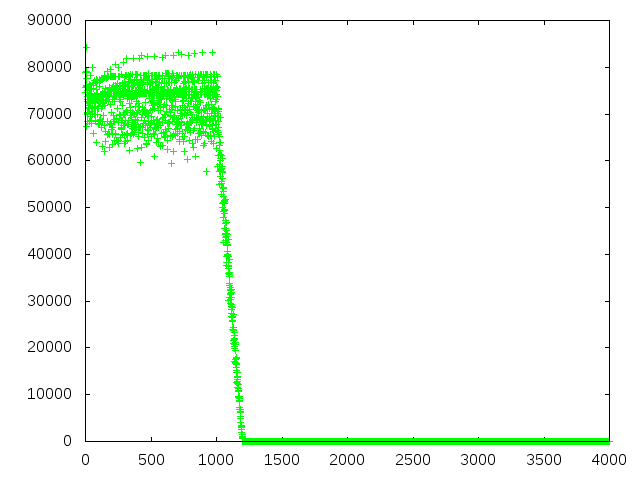
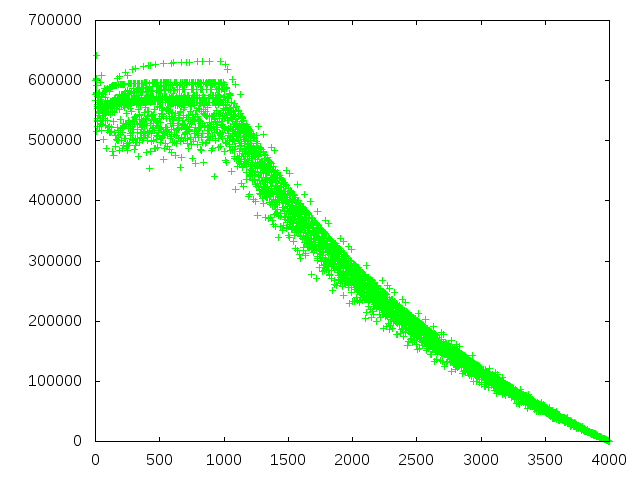
updated graph

diff --git a/lottery.py b/lottery.py
@@ -32,7 +32,7 @@ class Histogram():
 
 def make_histogram():
     histo = Histogram(4000)
-    for retweetcount in range(1000, 1200):
+    for retweetcount in range(1000, 4000):
         for h in coprimes(retweetcount):
             for j in range(1, 11):
                 histo.mark(h*j, retweetcount)
